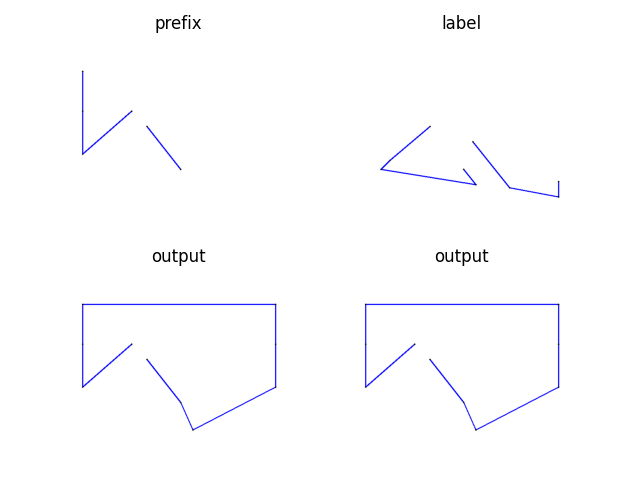
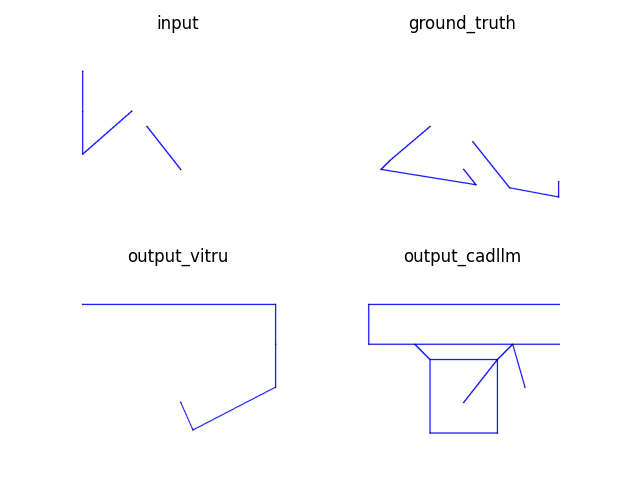
comapre with vitru in v1

diff --git a/models/byt5.py b/models/byt5.py
@@ -161,7 +161,7 @@ class ByT5Model(pl.LightningModule):
         ''' compare some sample with vitruvion'''
         
         device = batch['input_ids'].device
-        strings =  ['0,60,63,60;0,3,63,3;'] #'63,32,63,51;53,51,63,51;0,32,0,51;46,44,46,51;46,44,53,44;53,44,53,51;53,44,53,51;0,32,63,32;'
+        strings =  ['0,38,16,24;0,24,0,38;0,11,0,24;21,29,32,43;'] #'63,32,63,51;53,51,63,51;0,32,0,51;46,44,46,51;46,44,53,44;53,44,53,51;53,44,53,51;0,32,63,32;'
         token_in = self.tokenizer(strings, padding=True, truncation=True, max_length=96, return_tensors="pt")
         batch['input_ids'] = token_in.input_ids.to(device)
         batch['attention_mask'] =token_in.attention_mask.to(device)
@@ -211,15 +211,16 @@ class ByT5Model(pl.LightningModule):
 
         batch['attention_mask'] = model_batch['attention_mask']
         batch['inputs_embeds'] = model_batch['inputs_embeds']
+        
+        # Generate and process samples
+        self.generate_samples(batch)
 
         outputs = self.model(**model_batch)
         loss = outputs.loss
         self.log(f"{validate}_loss", loss, on_step=False, on_epoch=True, prog_bar=True, logger=True,
                  batch_size=self.batch_size, sync_dist=True)
         
-        
-        # Generate and process samples
-        self.generate_samples(batch)
+    
 
         # Calculate metrics
         top1_full_sketch = calculate_accuracy(samples=batch["point_samples"], labels=batch["point_labels"])

diff --git a/compare_vitru_out.py b/compare_vitru_out.py
@@ -141,7 +141,7 @@ def visua_vitru(prefix, output_entities, labels):
         label = convert_circle(label) 
             
         embed()
-        cad_out = '1,13,1,32;1,13,64,13;1,32,63,32;46,51,53,51;63,32,64,13;'
+        cad_out = '1,11,1,24;1,11,64,11;1,24,64,24;16,24,21,29;21,29,21,53;21,29,43,29;21,53,43,53;32,43,43,29;43,29,43,53;43,29,48,24;48,24,52,38;' #'1,8,1,56;1,8,63,8;1,56,64,56;63,8,63,55;63,8,64,56;' # '1,3,1,61;1,3,63,3;1,61,63,61;63,3,63,60;63,3,63,61;' # '1,13,1,32;1,13,64,13;1,32,63,32;46,51,53,51;63,32,64,13;'
         cadllm = get_point_entities(cad_out)
     
         img1 = save_entities(_prefix, 'outputs/vitru_prefix.png')
